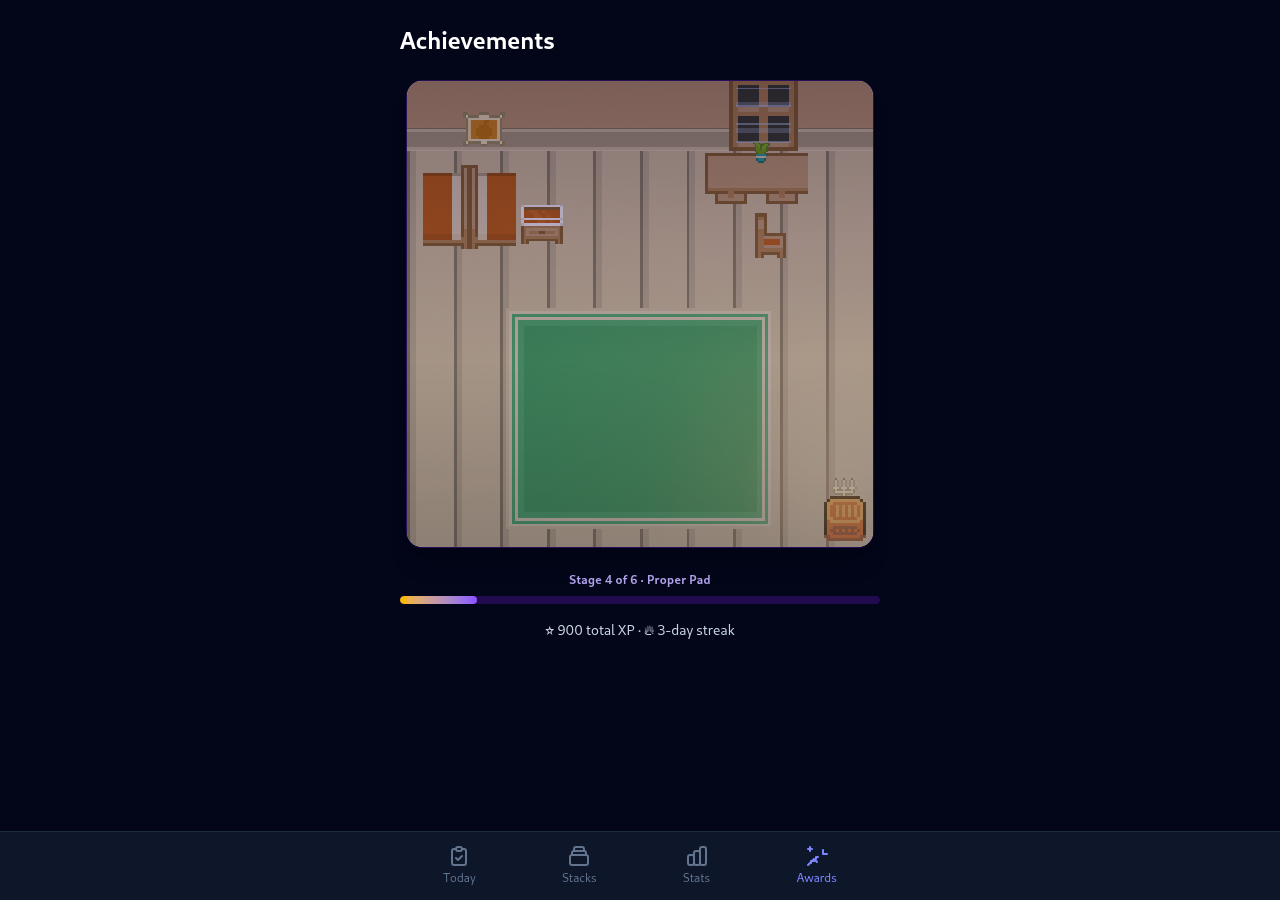
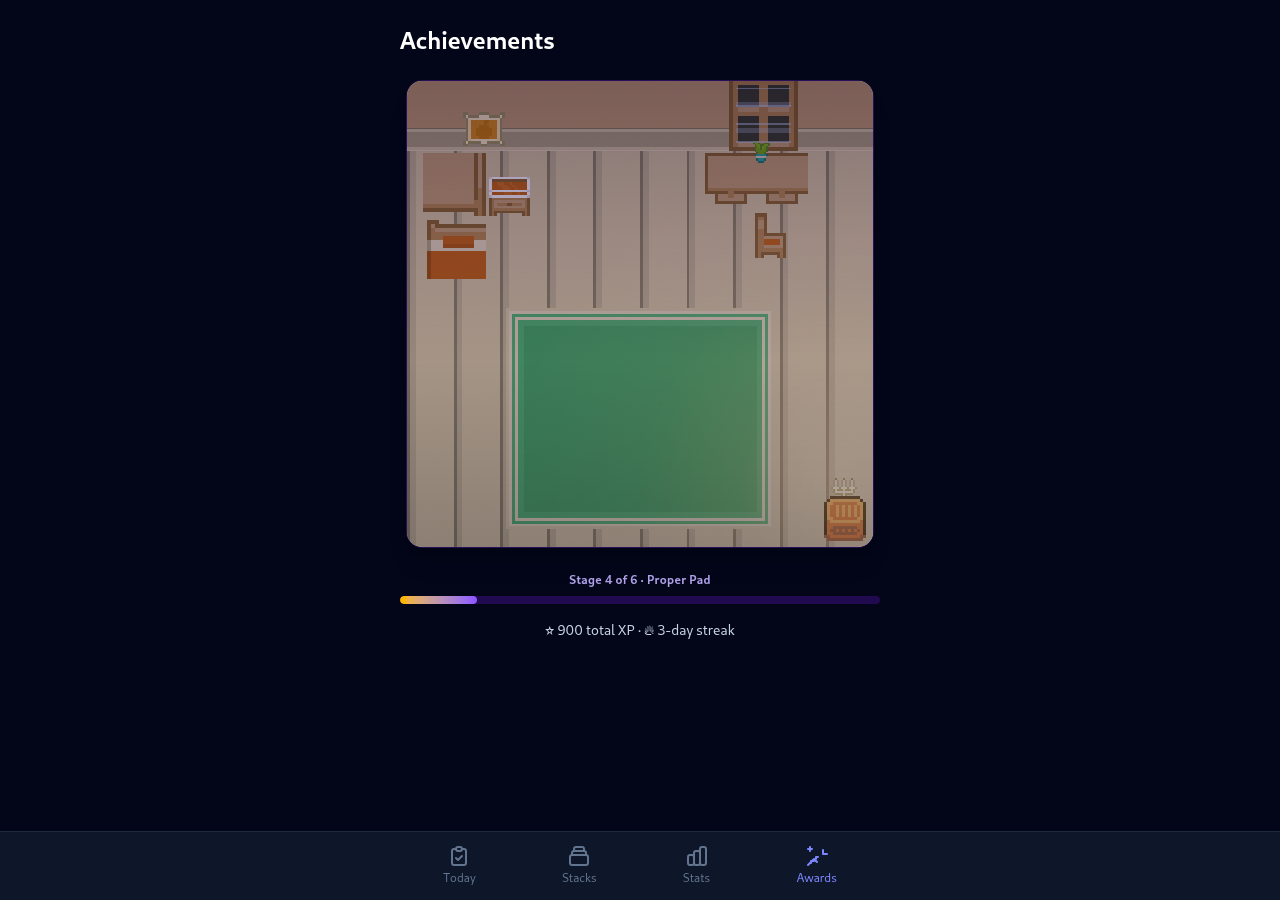
fix: bed reads as a bed - merged authentic pack bed pair
- previous bed slice was Kenney's wardrobe shape (two door panels) and never read as a bed
- bed is now bed-top+bed-bot merged into one seamless 16x32 sprite (headboard, sheet, orange blanket) at its original 1.35x2.7 footprint
- nightstand moved to the bed's head (x 1.75, y 2)
- credits: bed.png provenance corrected to rows 5-6, col 14
- docs renders regenerated (stage4 pair; stage-1 pair unchanged)
- battery: tests, svelte-check 0/0, builds, e2e visual pass

Changed region(s): [[0.3125, 0.1556, 0.4375, 0.3111]]

diff --git a/src/lib/room/layout.ts b/src/lib/room/layout.ts
@@ -82,8 +82,8 @@ export const ROOM_ITEMS: RoomItem[] = [
 	{ id: 'desk', src: deskImg, x: 6.4, y: 1.55, w: 2.2, h: 1.1, stage: 2, alt: 'Small wooden desk against the wall' },
 	{ id: 'chair', src: chairImg, x: 7.25, y: 2.7, w: 1.1, h: 1, stage: 2, alt: 'Wooden chair tucked at the desk' },
 	{ id: 'sprout', src: sproutImg, x: 7.3, y: 1.15, w: 0.65, h: 0.5, stage: 3, alt: 'Little potted sprout on the desk' },
-	{ id: 'bed', src: bedImg, x: 0.35, y: 1.6, w: 2, h: 2, stage: 4, alt: 'Proper bed with an orange blanket against the wall' },
-	{ id: 'nightstand', src: nightstandImg, x: 2.45, y: 2.6, w: 0.9, h: 0.9, stage: 4, alt: 'Small bedside cabinet next to the bed' },
+	{ id: 'bed', src: bedImg, x: 0.35, y: 1.55, w: 1.35, h: 2.7, stage: 4, alt: 'Proper bed with an orange blanket against the wall' },
+	{ id: 'nightstand', src: nightstandImg, x: 1.75, y: 2, w: 0.9, h: 0.9, stage: 4, alt: 'Small bedside cabinet next to the bed' },
 	{ id: 'blanket', src: blanketImg, x: 0.45, y: 2.9, w: 0.9, h: 1, stage: 1, until: 4, alt: 'Folded blanket with a pillow on the floor' },
 	{ id: 'bedroll', src: bedrollImg, x: 1.65, y: 3, w: 0.9, h: 1, stage: 1, until: 4, alt: 'Rolled-up sleeping mat on the floor' },
 	{ id: 'crate', src: crateImg, x: 8.95, y: 8.9, w: 0.9, h: 1, stage: 1, alt: 'Simple wooden storage box' },

diff --git a/src/lib/assets/room/CREDITS.md b/src/lib/assets/room/CREDITS.md
@@ -22,8 +22,8 @@ Credit (Kenney or www.kenney.nl) would be nice but is not mandatory.
   16px tiles with a 1px margin between tiles): `lamp.png` (row 0, col 20),
   `desk.png` (row 4, cols 4-5 merged into one 32x16 tabletop),
   `chair.png` (row 7, col 2), `sprout.png` (row 0, col 17),
-  `poster.png` (row 13, col 19), `bed.png` (rows 0-1, cols 12-13 merged
-  into one 32x32 bed), `nightstand.png` (row 5, col 5), `speaker.png`
+  `poster.png` (row 13, col 19), `bed.png` (rows 5-6, col 14 merged
+  into one 16x32 bed), `nightstand.png` (row 5, col 5), `speaker.png`
   (row 9, col 25).
 
 ## Kenney Roguelike RPG pack
